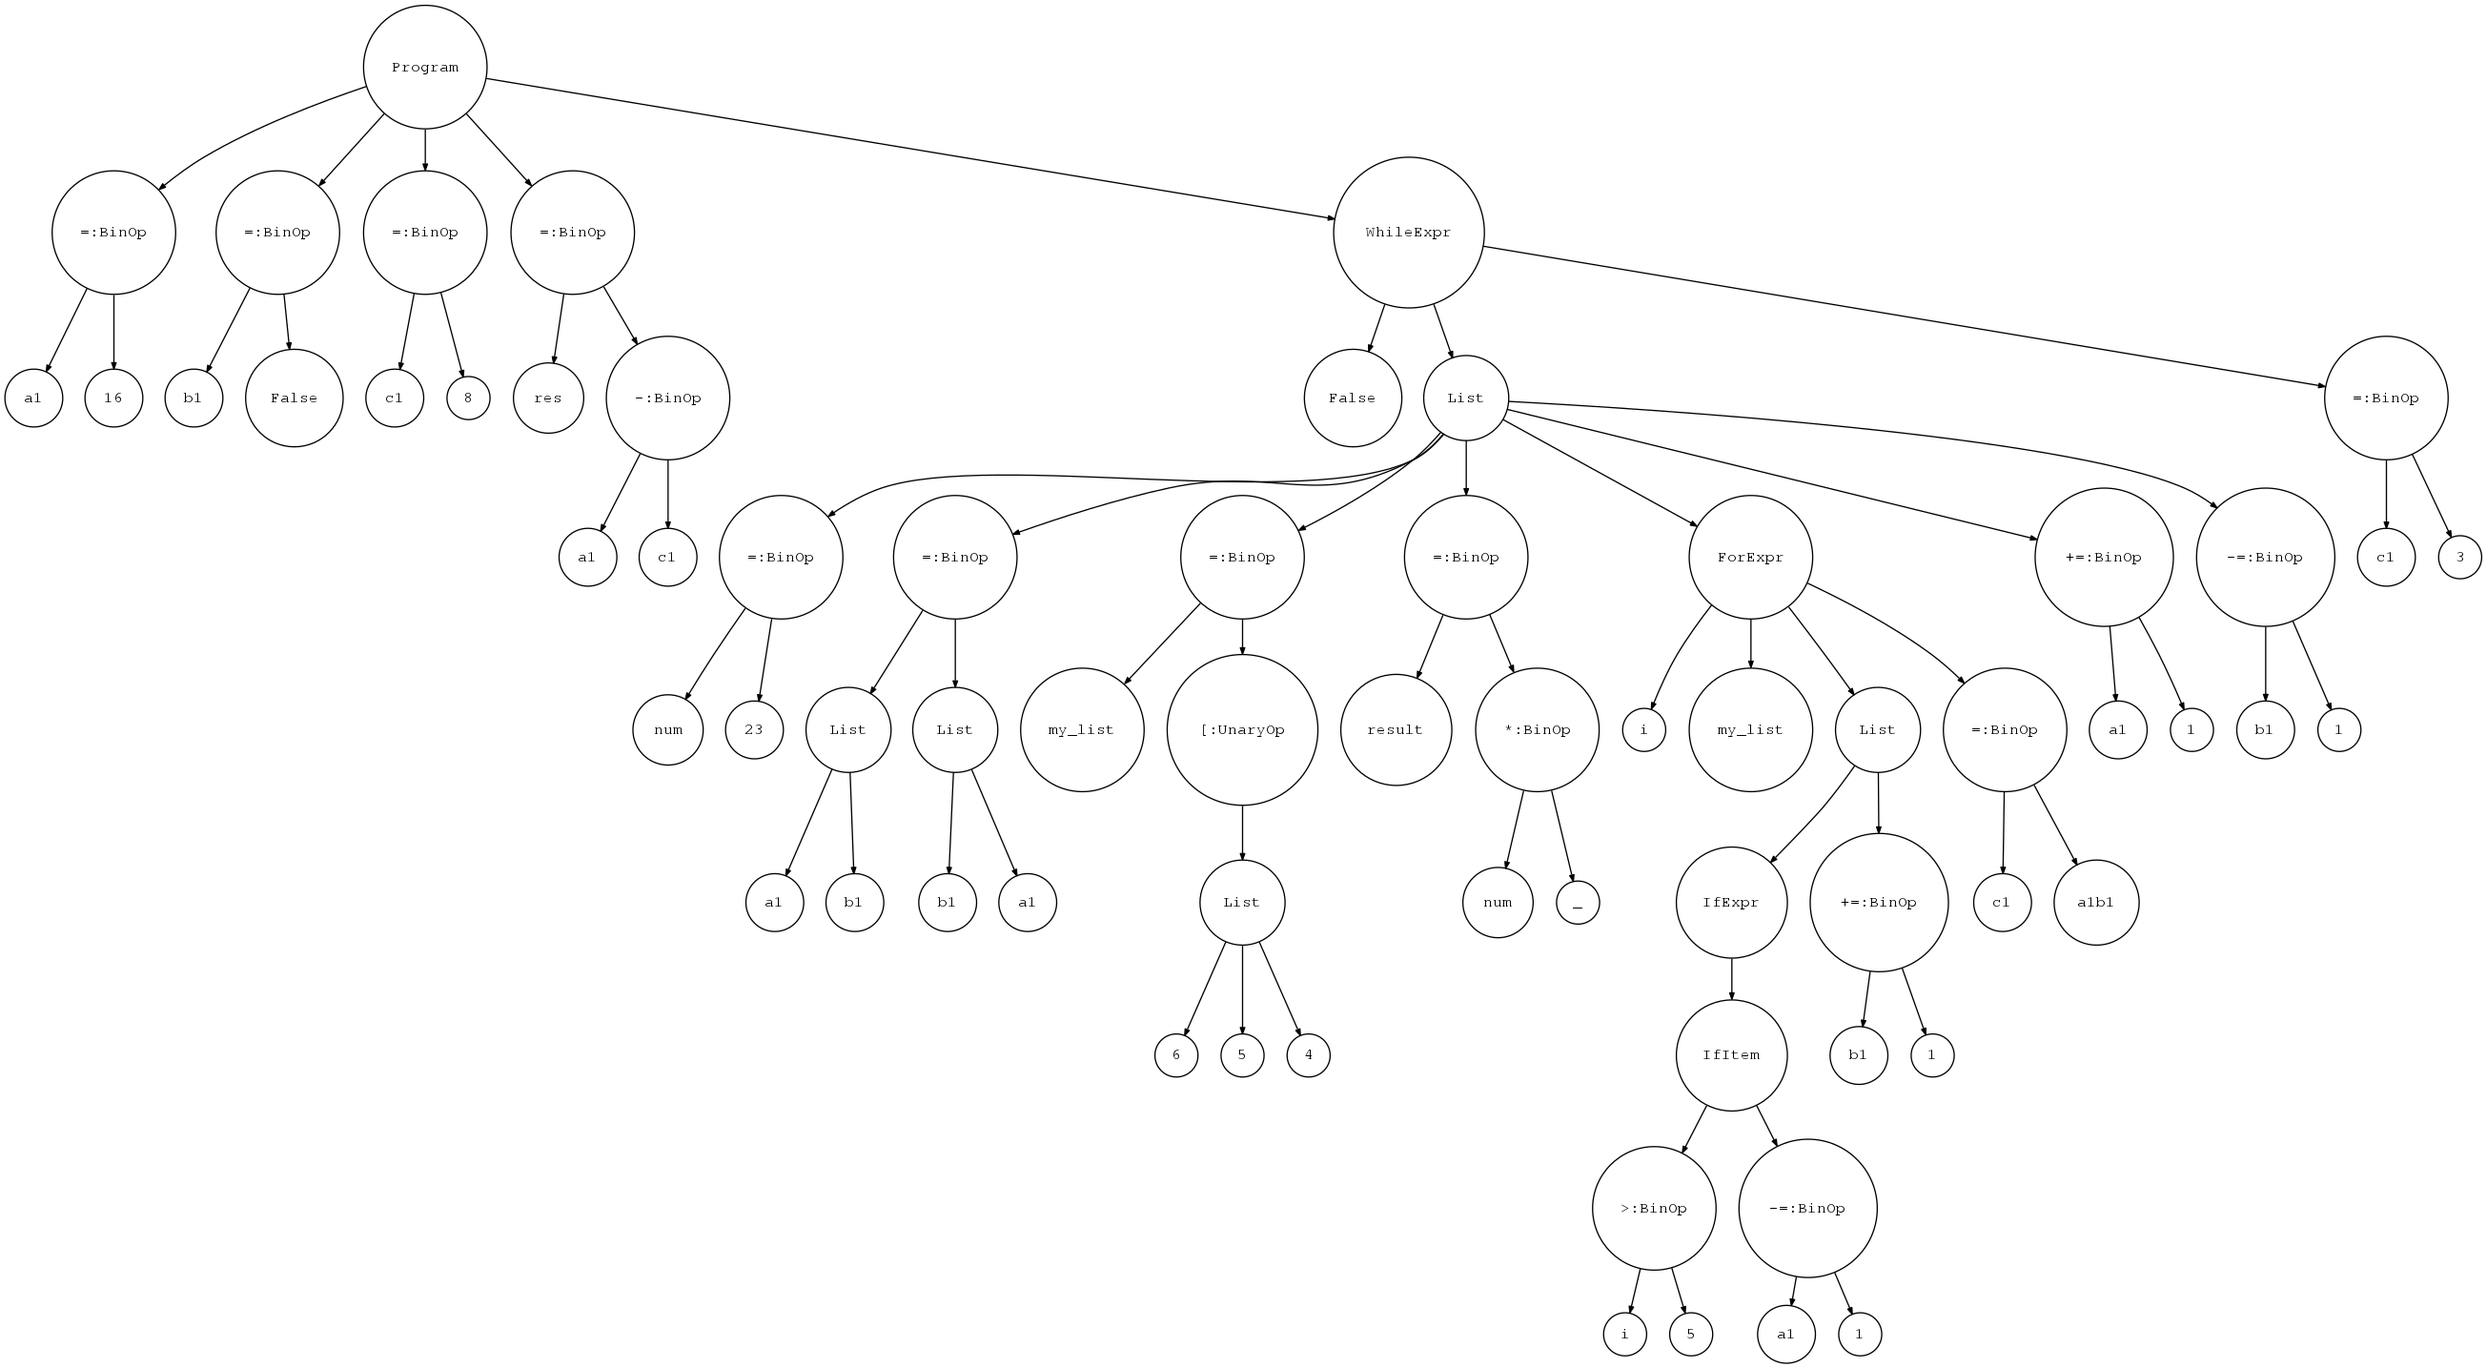
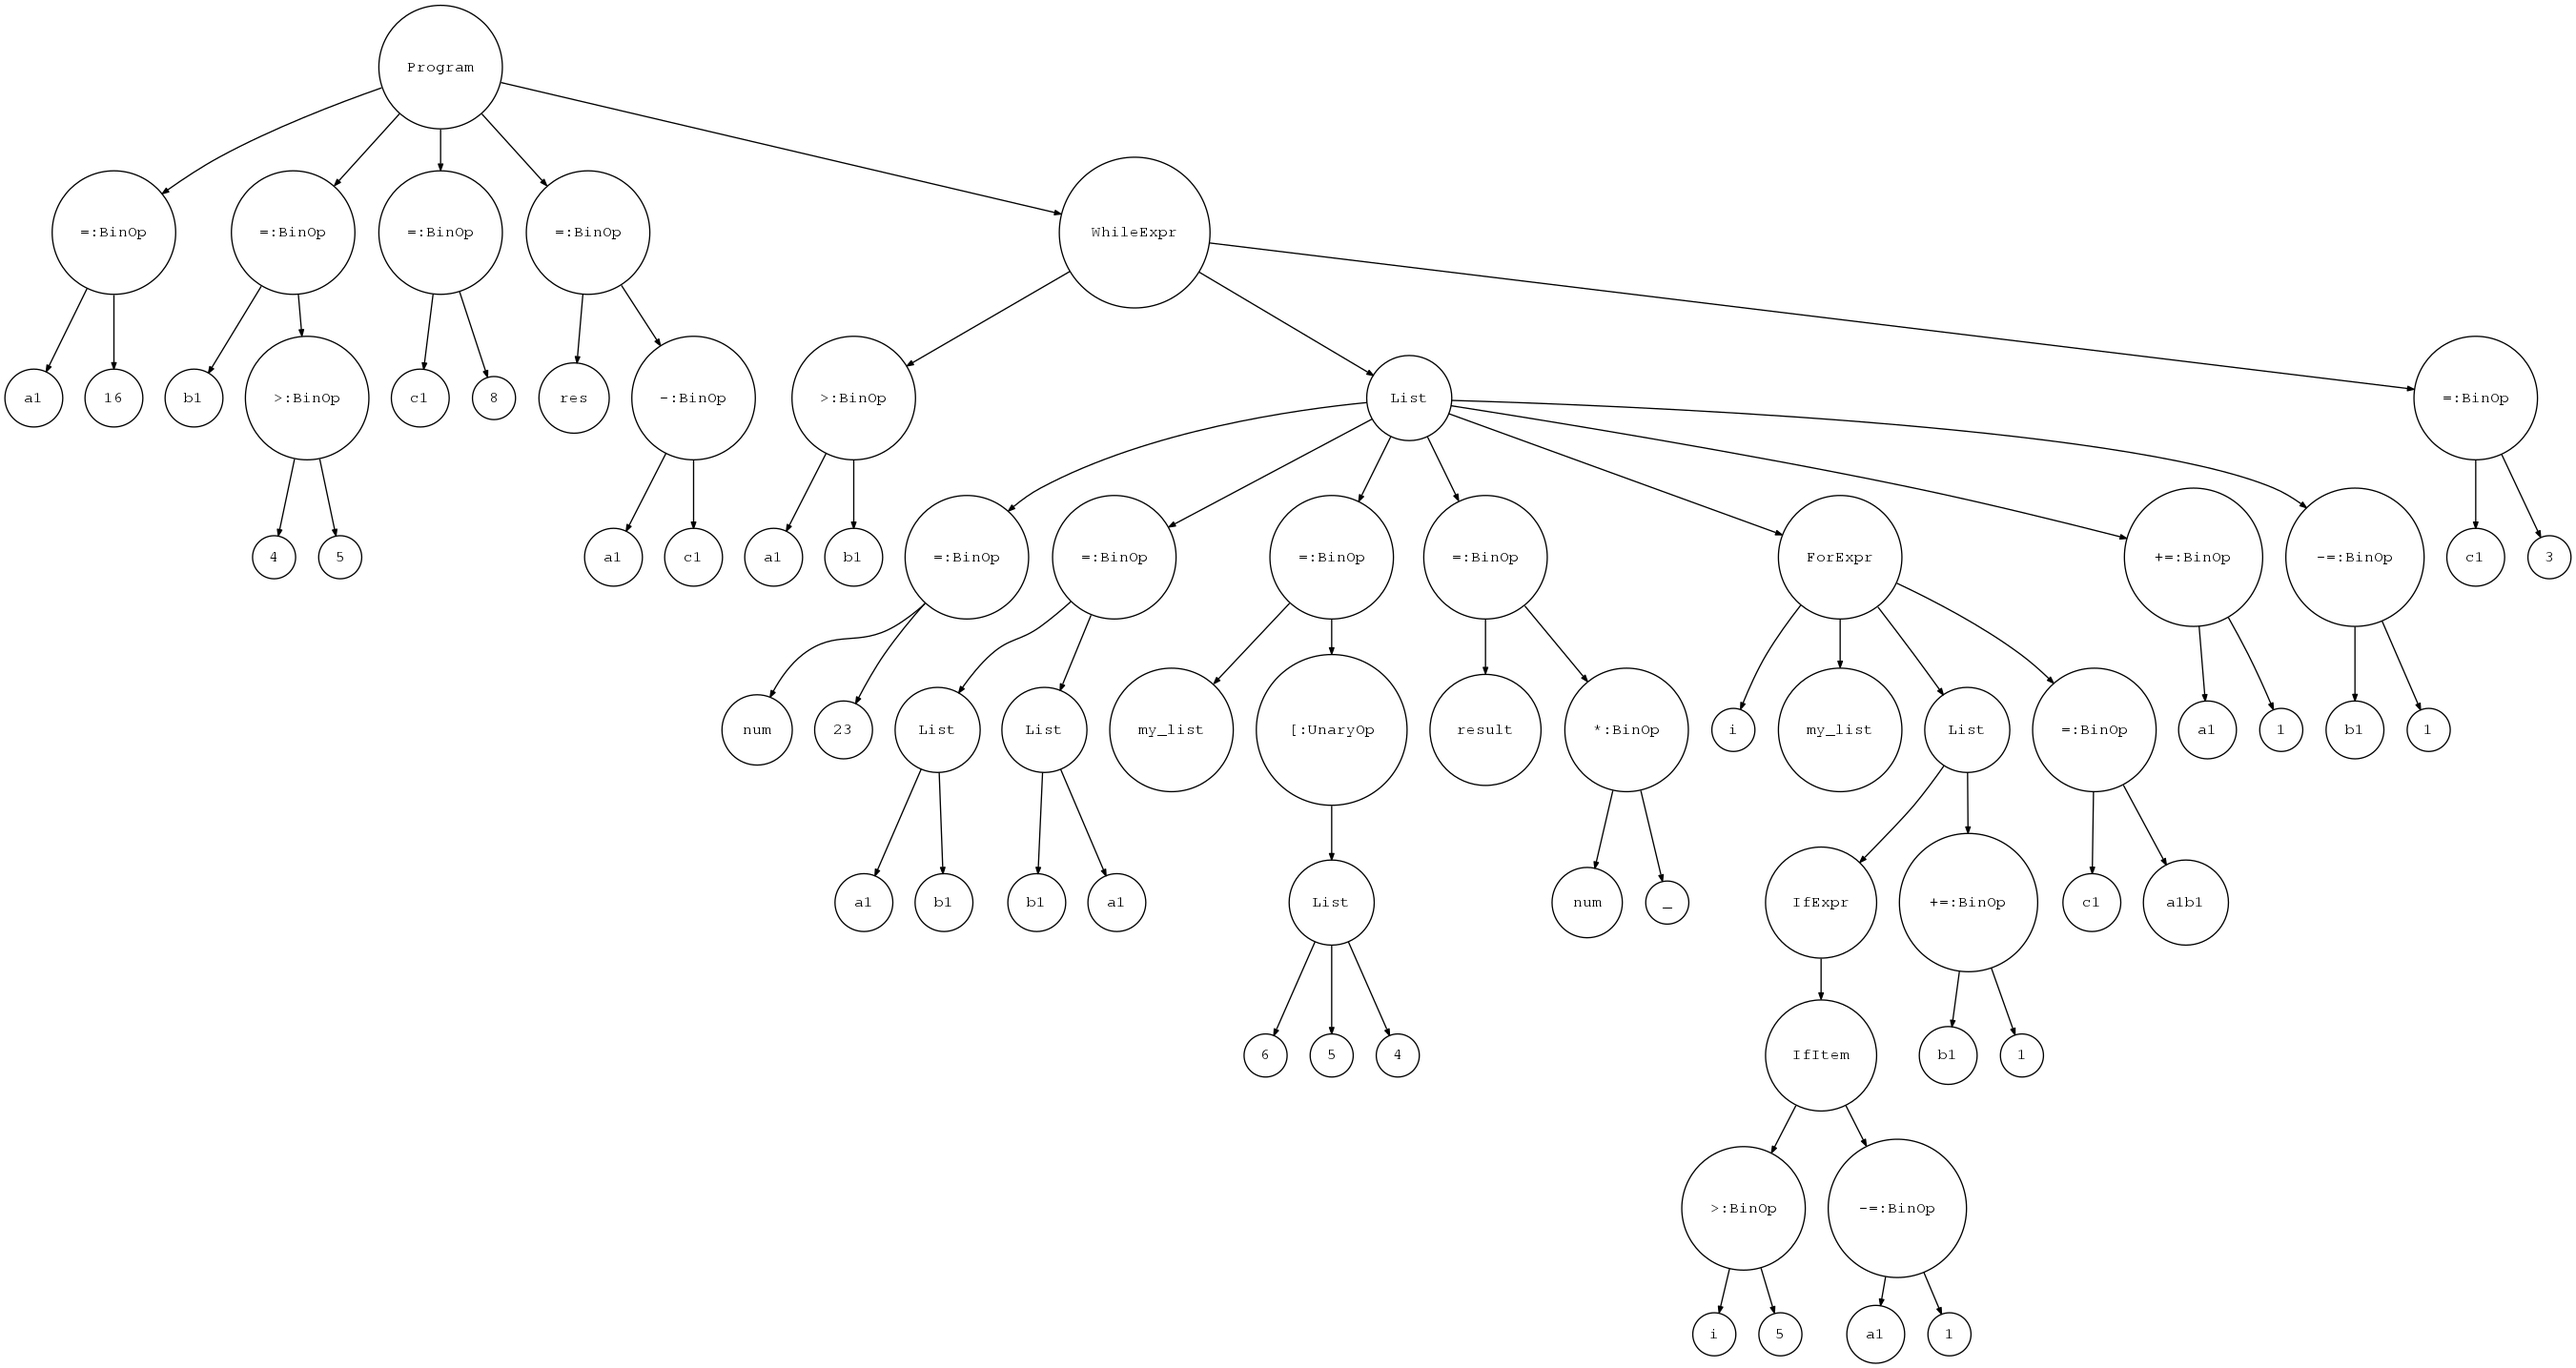
比较符操作错误

diff --git a/parser.py b/parser.py
@@ -121,14 +121,14 @@ class Parser(object):
             # node = BinOp(node, self.comp_op(), self.expr())
             op = self.comp_op()
             node2 = self.expr()
-            if op.type == COMP_OP:
-                try:
-                    node.value = BINARY_OPERATORS[op.value](
-                        node.value, node2.value)
-                except Exception:
-                    node = BinOp(node, op, node2)
-            else:
-                node = BinOp(node, op, node2)
+            # if op.type == COMP_OP:
+            #     try:
+            #         node.value = BINARY_OPERATORS[op.value](
+            #             node.value, node2.value)
+            #     except Exception:
+            #         node = BinOp(node, op, node2)
+            # else:
+            node = BinOp(node, op, node2)
         return node
 
     def not_test(self):
